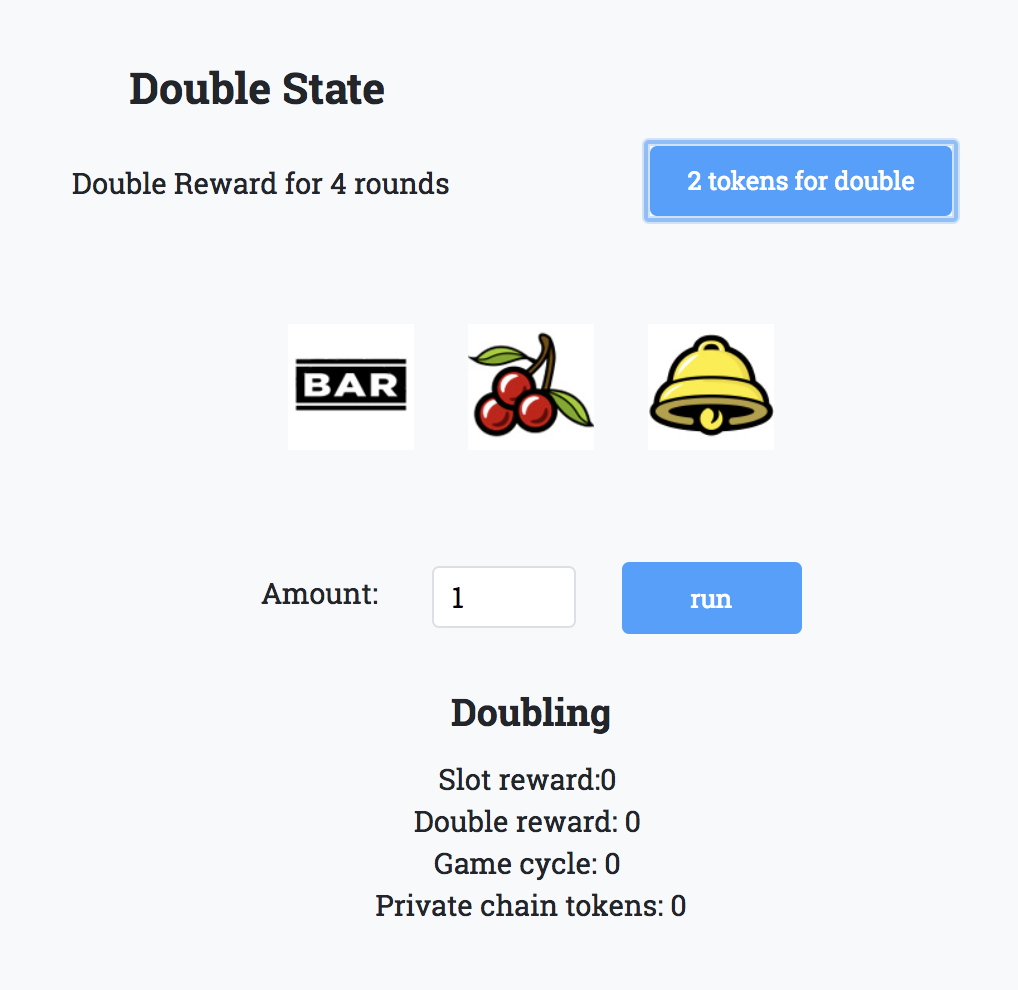
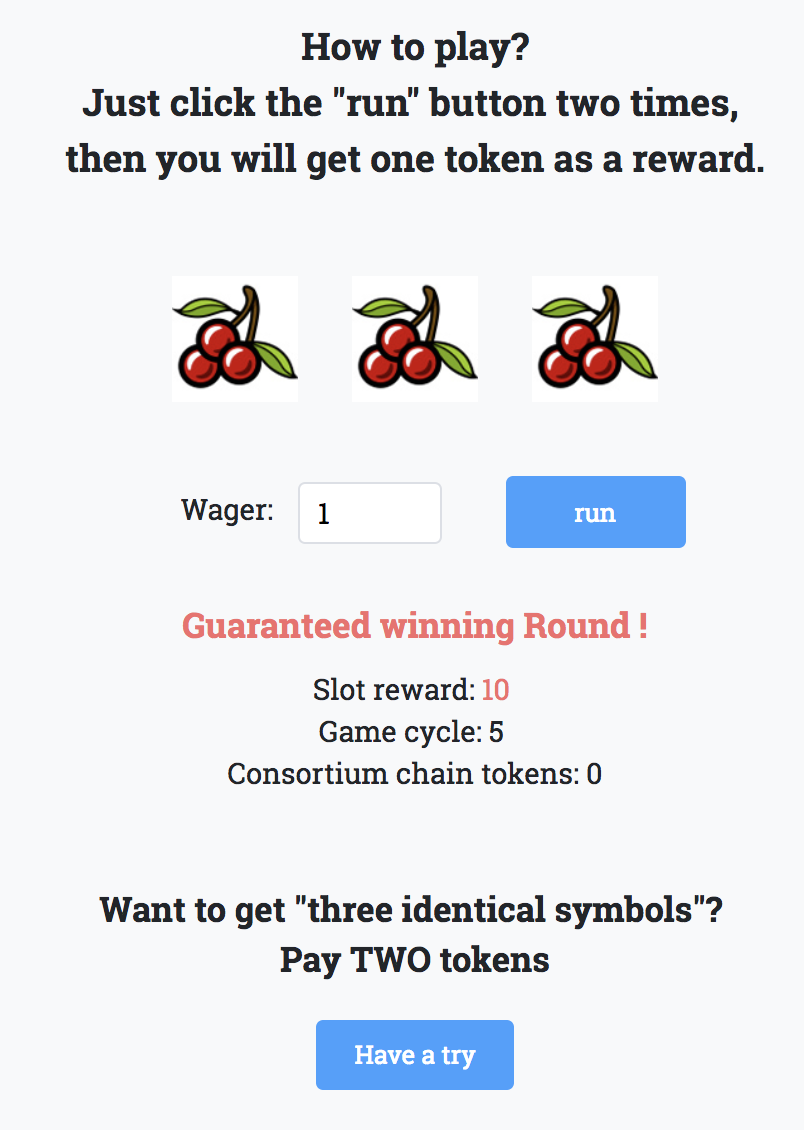
change picture and fix steps in demo

diff --git a/tutorial/README.md b/tutorial/README.md
@@ -163,15 +163,15 @@ The latter version is [here](https://consortium.secdevgame.site), which is built
 
 <center> <img src="assets/faucet.png" width=500> </center>
 
-  4. Now you can start to play the game machine! Input your wager amount and run the slotmachine. After four rounds, you will get one token as a reward.
+  4. Now you can start to play the game machine! Input your wager amount and run the slotmachine. Every two rounds, you will get one token as a reward.
 
 <center> <img src="assets/slotmachine.png" width=500> </center>
 
-  5. Consume 2 tokens, you can get into a **Double** state, where after four rounds, your reward will double.
+  5. Consume 2 tokens, you can get your **Guaranted Winning Round** , when every round you can get three identical symbols.
 
 <center> <img src="assets/double.png" width=500> </center>
 
-  6. (This part is only shown in the latter version.) Switch to the wallet, you can transfer your token between the consortium chain and the public chain. After inputting the amount of token to transfer, click the `exchange` button, you will send a transaction signed by your account to our server which transfers the transaction to a chain. After a few seconds, you can see your token transferred to the other chain.
+  6. (This part is only shown in the latter version.) Switch to the wallet, you can transfer your token between the consortium chain and the public chain. After inputting the amount of token to transfer, click a button, you will send a transaction signed by your account to our server which transfers the transaction to a chain. After a few seconds, you can see your token transferred to the other chain.
 
 
 <center> <img src="assets/wallet.png" width=400> </center>
@@ -197,13 +197,14 @@ The following image illustrates the whole architecture. In fact, the **bridge** 
 
   > Every time you play five rounds within the game machine, a http request is sent to the server. On the server side, a consortium chain composed of three nodes is running. After the server receives the request, call a function in the contract and send this transaction to the chain.
 
-  4. Consume two tokens, you can get into a **Double** state, where in four rounds, your reward will double.
+  4. Consume two tokens, you can get your **Guaranted Winning Round**, When every  2 rounds you can get three identical symbols.
+
 
   > This part is written in `JavaScript`.
 
-  5. Exchange tokens between the consortium chain and the public chain via the wallet.
+  5. Transfer tokens between the consortium chain and the public chain via the wallet.
 
-  * When you click `exchange` button, you are using your wallet to create and sign a transaction.
+  * When you click the transfer button, you are using your wallet to create and sign a transaction.
   * Then the transaction, wrapped in the http request, is sent to the server. Upon receiving the transaction, the server sends it to the public chain or the consortium chain based on your choice. 
   * Suppose the transaction is sent to the public chain and the public chain executes it, reduces your token amount in the public chain, and emits an event (you can see there are several events defined in the contract). 
   * Our bridge, as a JavaScript program that is listening on such event, will catch this event and send another transaction to the consortium chain to increase your token amount in the consortium chain. 
